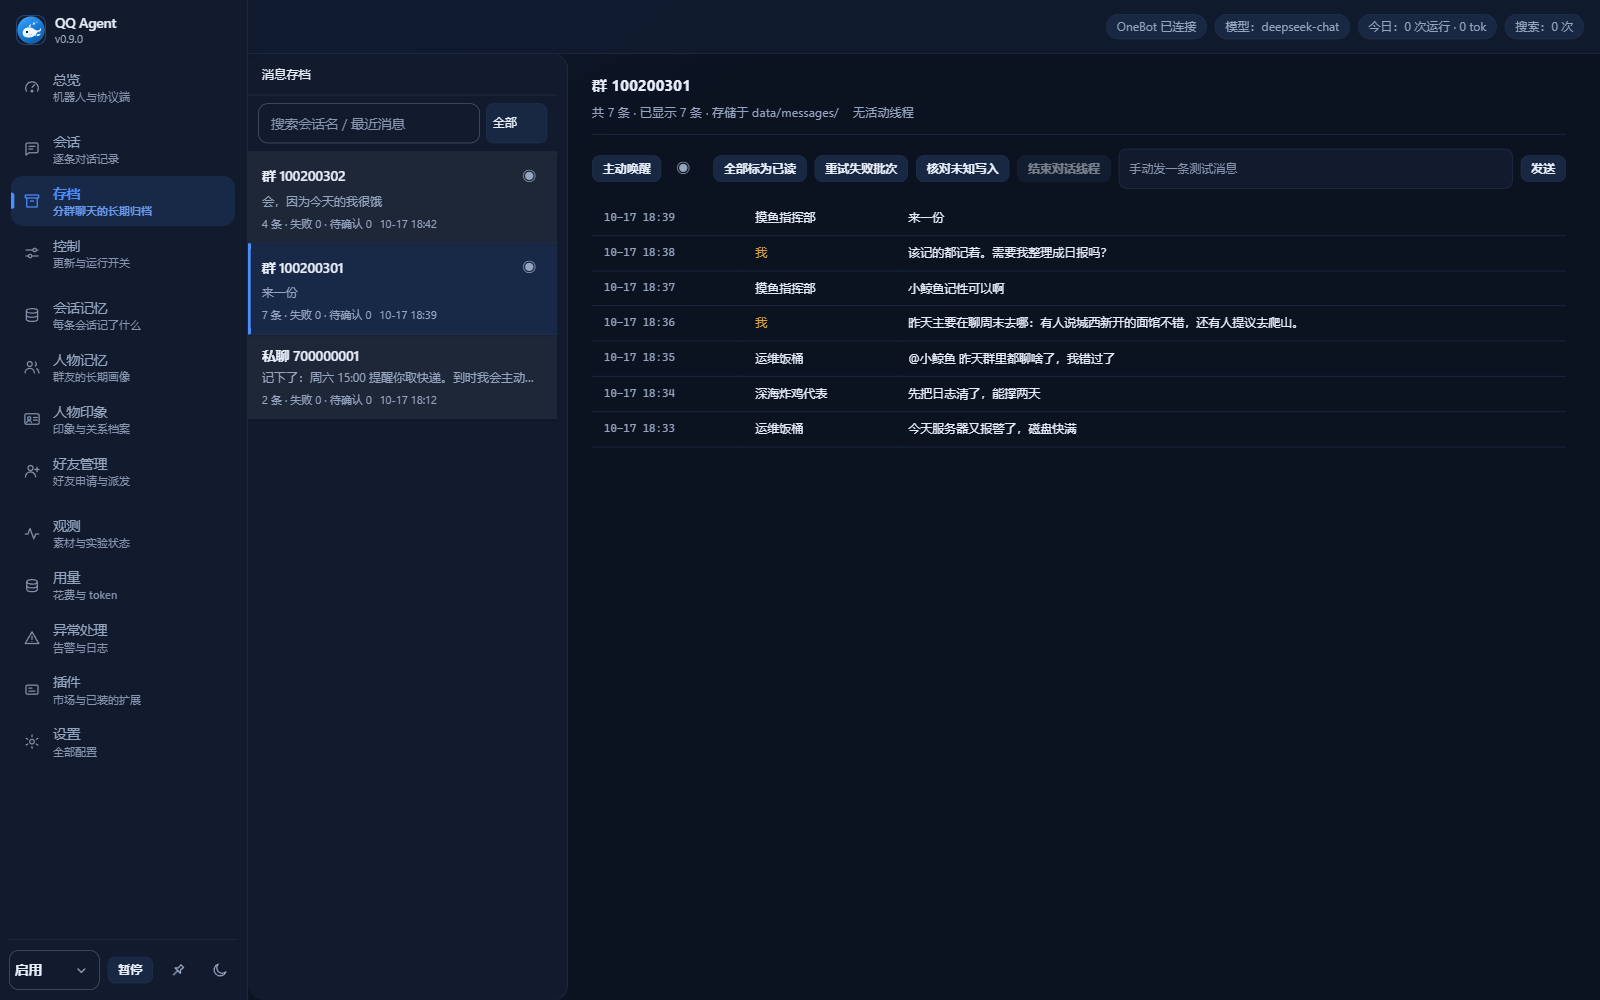
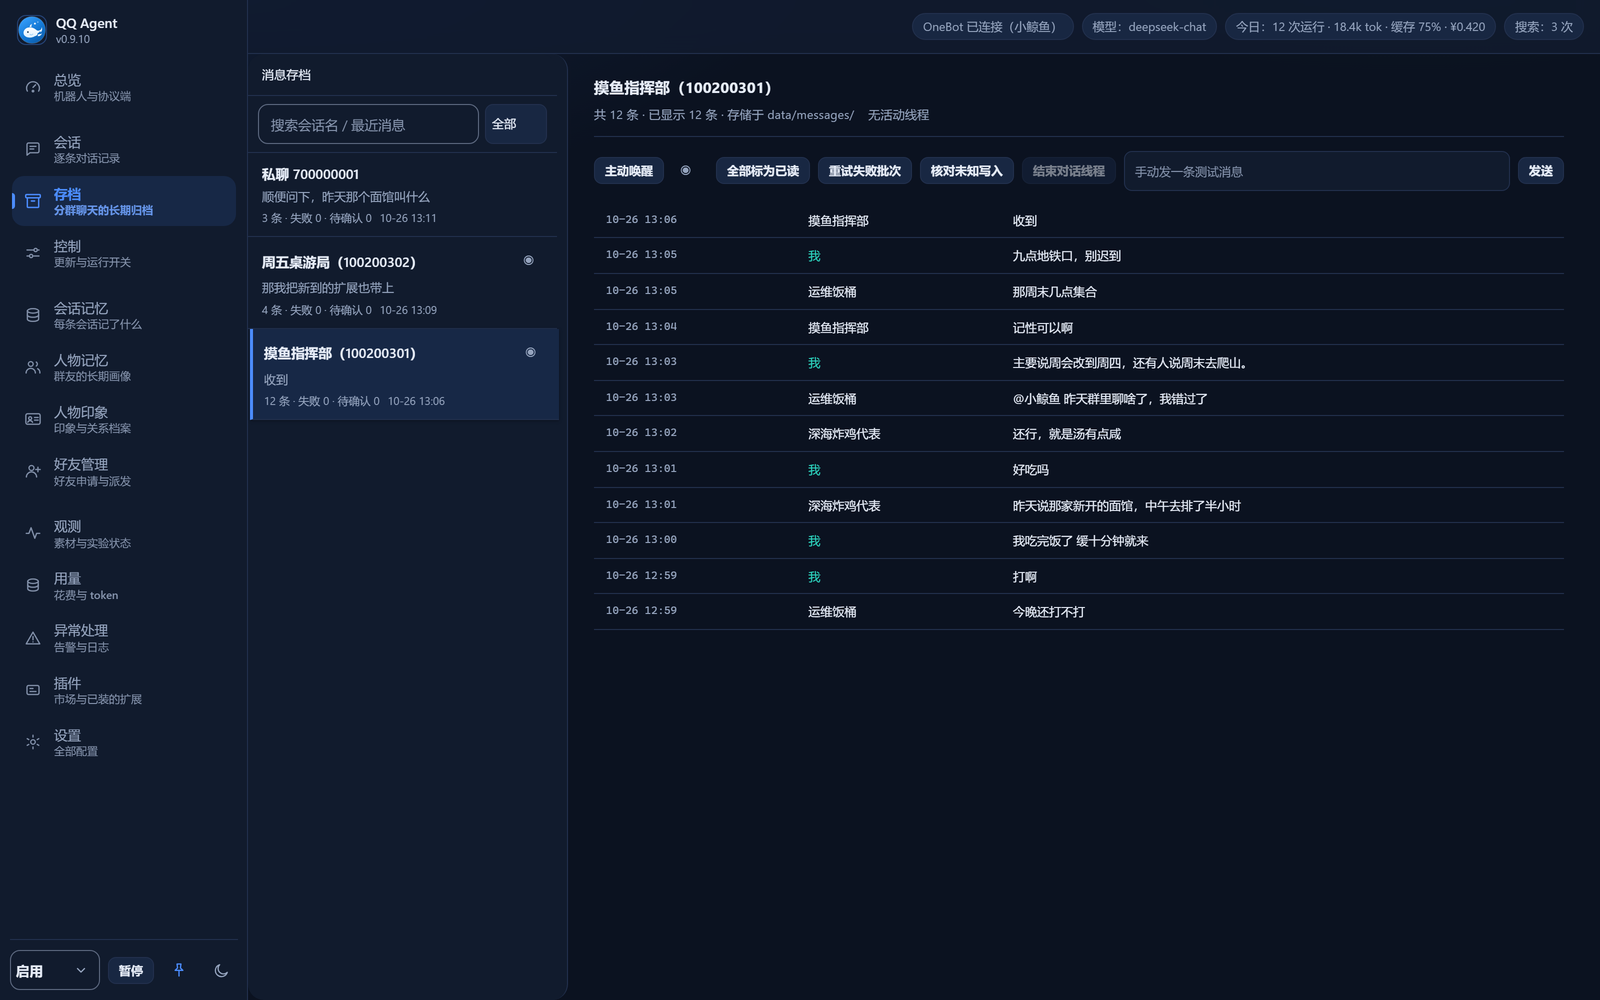
docs: 更新控制台截图并增加界面展示

diff --git a/docs/assets/social-preview.html b/docs/assets/social-preview.html
@@ -85,7 +85,10 @@
       <span class="chip">插件：独立进程 · 能力受控</span>
       <span class="chip">表情包自攒自用</span>
       <span class="chip">语音转写与语音回复</span>
+      <span class="chip">HTTP/2 抓取 · 插件信任模型</span>
+      <span class="chip">生活层 · B 站见闻</span>
       <span class="chip">长期记忆与每日说说</span>
+      <span class="chip">加密备份 · 指标 · 分页</span>
       <span class="chip">全量测试 / CI 全绿</span>
     </div>
     <div class="foot">

diff --git a/README.en.md b/README.en.md
@@ -109,6 +109,20 @@ mode and its resolution are recorded in [CHANGES](docs/CHANGES.md).
 Configuration examples are in [docs/CONFIG-EXAMPLES.md](docs/CONFIG-EXAMPLES.md). Operations
 commands are collected in [src/ops.js](src/ops.js) and documented in [docs/OPS.md](docs/OPS.md).
 
+## Screenshots
+
+The screenshots below use anonymised demo data and show the current overview, message archive,
+voice-reply settings and plugin page:
+
+<p align="center">
+  <img src="docs/assets/console-overview.png" alt="Overview: bot, protocol side and host status" width="49%">
+  <img src="docs/assets/console-demo.png" alt="Message archive: per-chat long-term history" width="49%">
+</p>
+<p align="center">
+  <img src="docs/assets/console-voice.png" alt="Voice replies: MiMo voice and director instruction" width="49%">
+  <img src="docs/assets/console-plugins.png" alt="Plugins: runtime state, permissions and source" width="49%">
+</p>
+
 ## Demo
 
 Operations commands ship with the application (`src/ops.js`); read-only commands do not modify

diff --git a/README.md b/README.md
@@ -74,6 +74,19 @@ QQ Agent Plus 是面向 Linux 服务器的 QQ 群聊 Agent。它连接外部 One
 用法见[运维工具](docs/OPS.md)。本地回归测试位于 [test/local/](test/local/README.md)。
 衍生关系与第三方版权说明见 [NOTICE](NOTICE.md)。
 
+## 界面
+
+以下截图使用匿名演示数据，展示当前版本的总览、消息存档、语音回复与插件页：
+
+<p align="center">
+  <img src="docs/assets/console-overview.png" alt="总览：机器人、协议端与主机状态" width="49%">
+  <img src="docs/assets/console-demo.png" alt="消息存档：分群长期归档" width="49%">
+</p>
+<p align="center">
+  <img src="docs/assets/console-voice.png" alt="语音回复：MiMo 音色与导演指令" width="49%">
+  <img src="docs/assets/console-plugins.png" alt="插件：运行状态、权限与来源" width="49%">
+</p>
+
 ## 示例
 
 运维命令随程序提供（`src/ops.js`），只读命令不修改业务数据。
